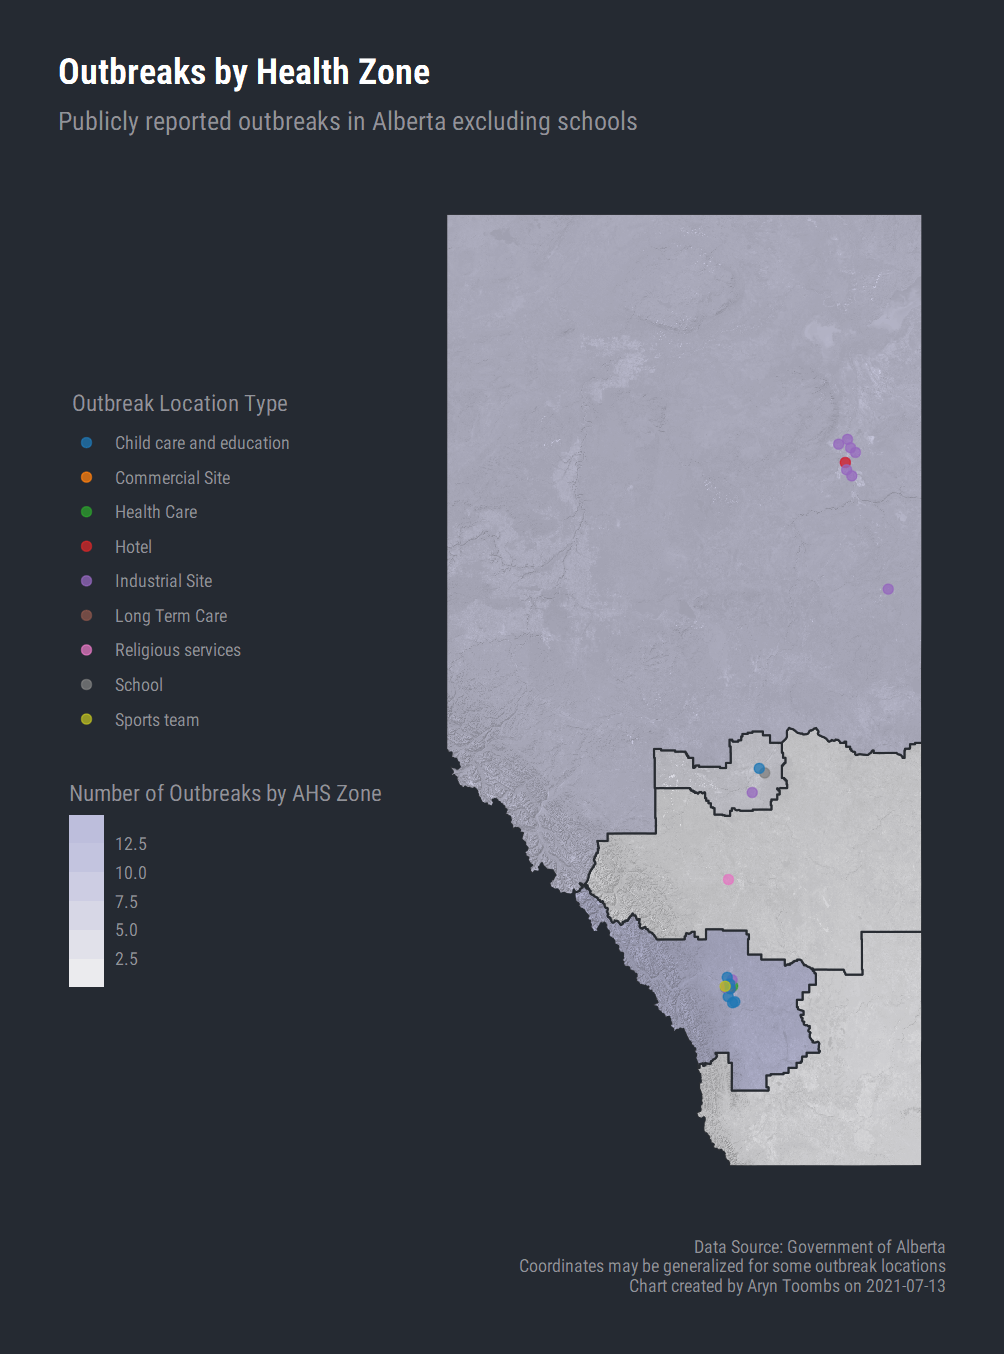
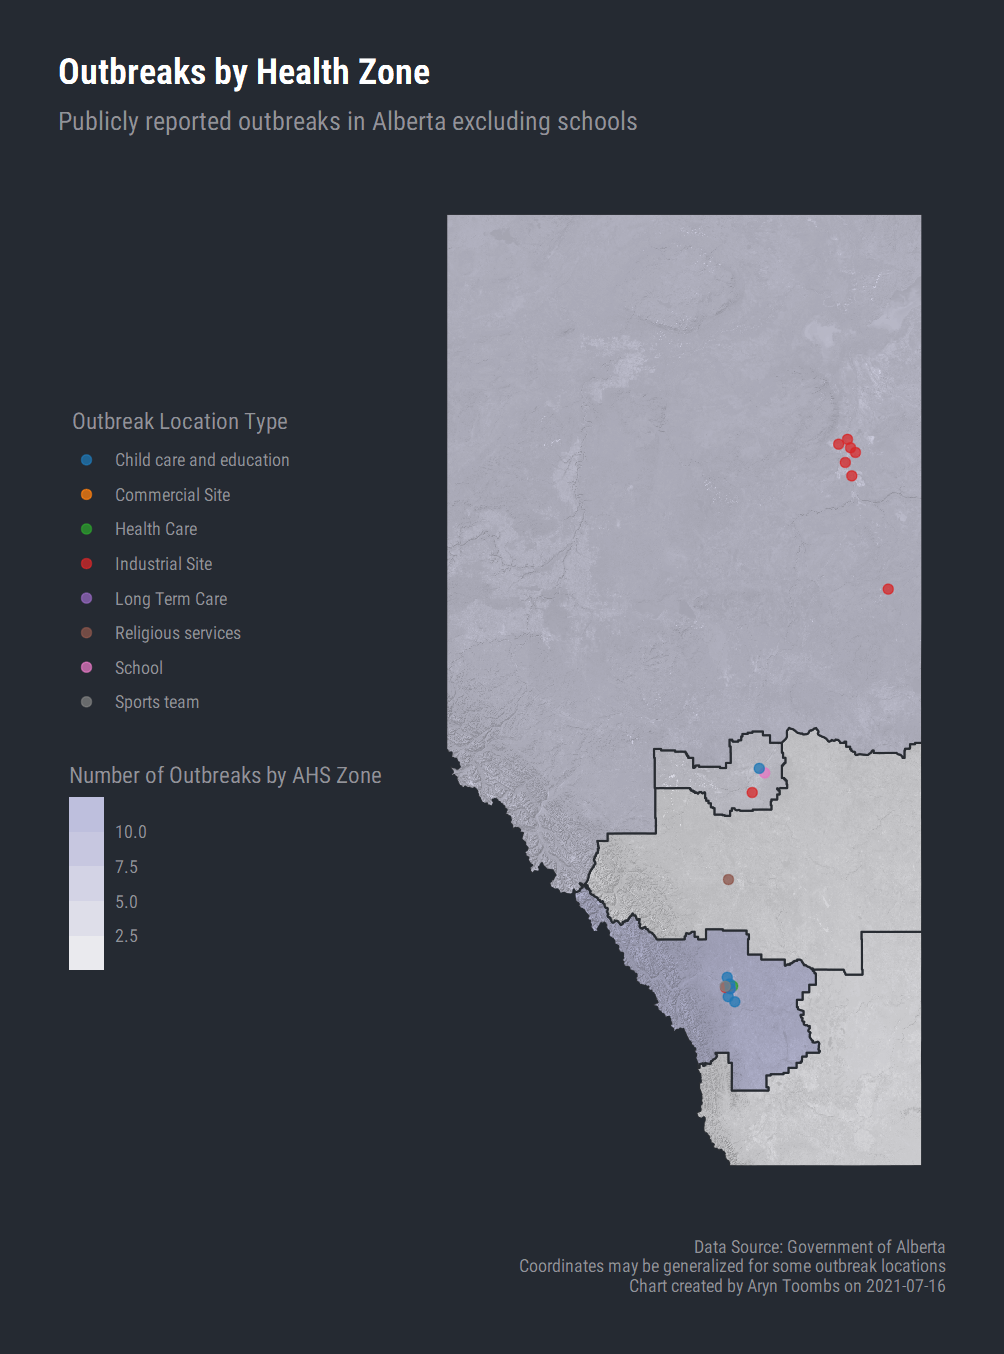
web

diff --git a/outbreaks/index.html b/outbreaks/index.html
@@ -162,7 +162,7 @@
       Calgary Zone
     </div>
     <div class="row box-bottom justify-content-center">
-      <h4>13</h4>
+      <h4>11</h4>
     </div>
   </div>
   <div class="col-sm ml-1 mr-1">
@@ -194,12 +194,12 @@
       North Zone
     </div>
     <div class="row box-bottom justify-content-center">
-      <h4>9</h4>
+      <h4>7</h4>
     </div>
   </div>
 </div>
 <div class="row mb-3 pr-1 pt-1 justify-content-end">
-  <p class="m-1"><i class="bi bi-info-circle-fill"></i> Covid-19 outbreaks (not including schools, see below) current as of Tue, Jul 13, 2021. AHS non-school outbreak data updated on Tuesdays and Fridays.</p>
+  <p class="m-1"><i class="bi bi-info-circle-fill"></i> Covid-19 outbreaks (not including schools, see below) current as of Fri, Jul 16, 2021. AHS non-school outbreak data updated on Tuesdays and Fridays.</p>
 </div>
   <div class="row pl-3">
     <h4 class="body-display">Outbreak Charts</h4>
